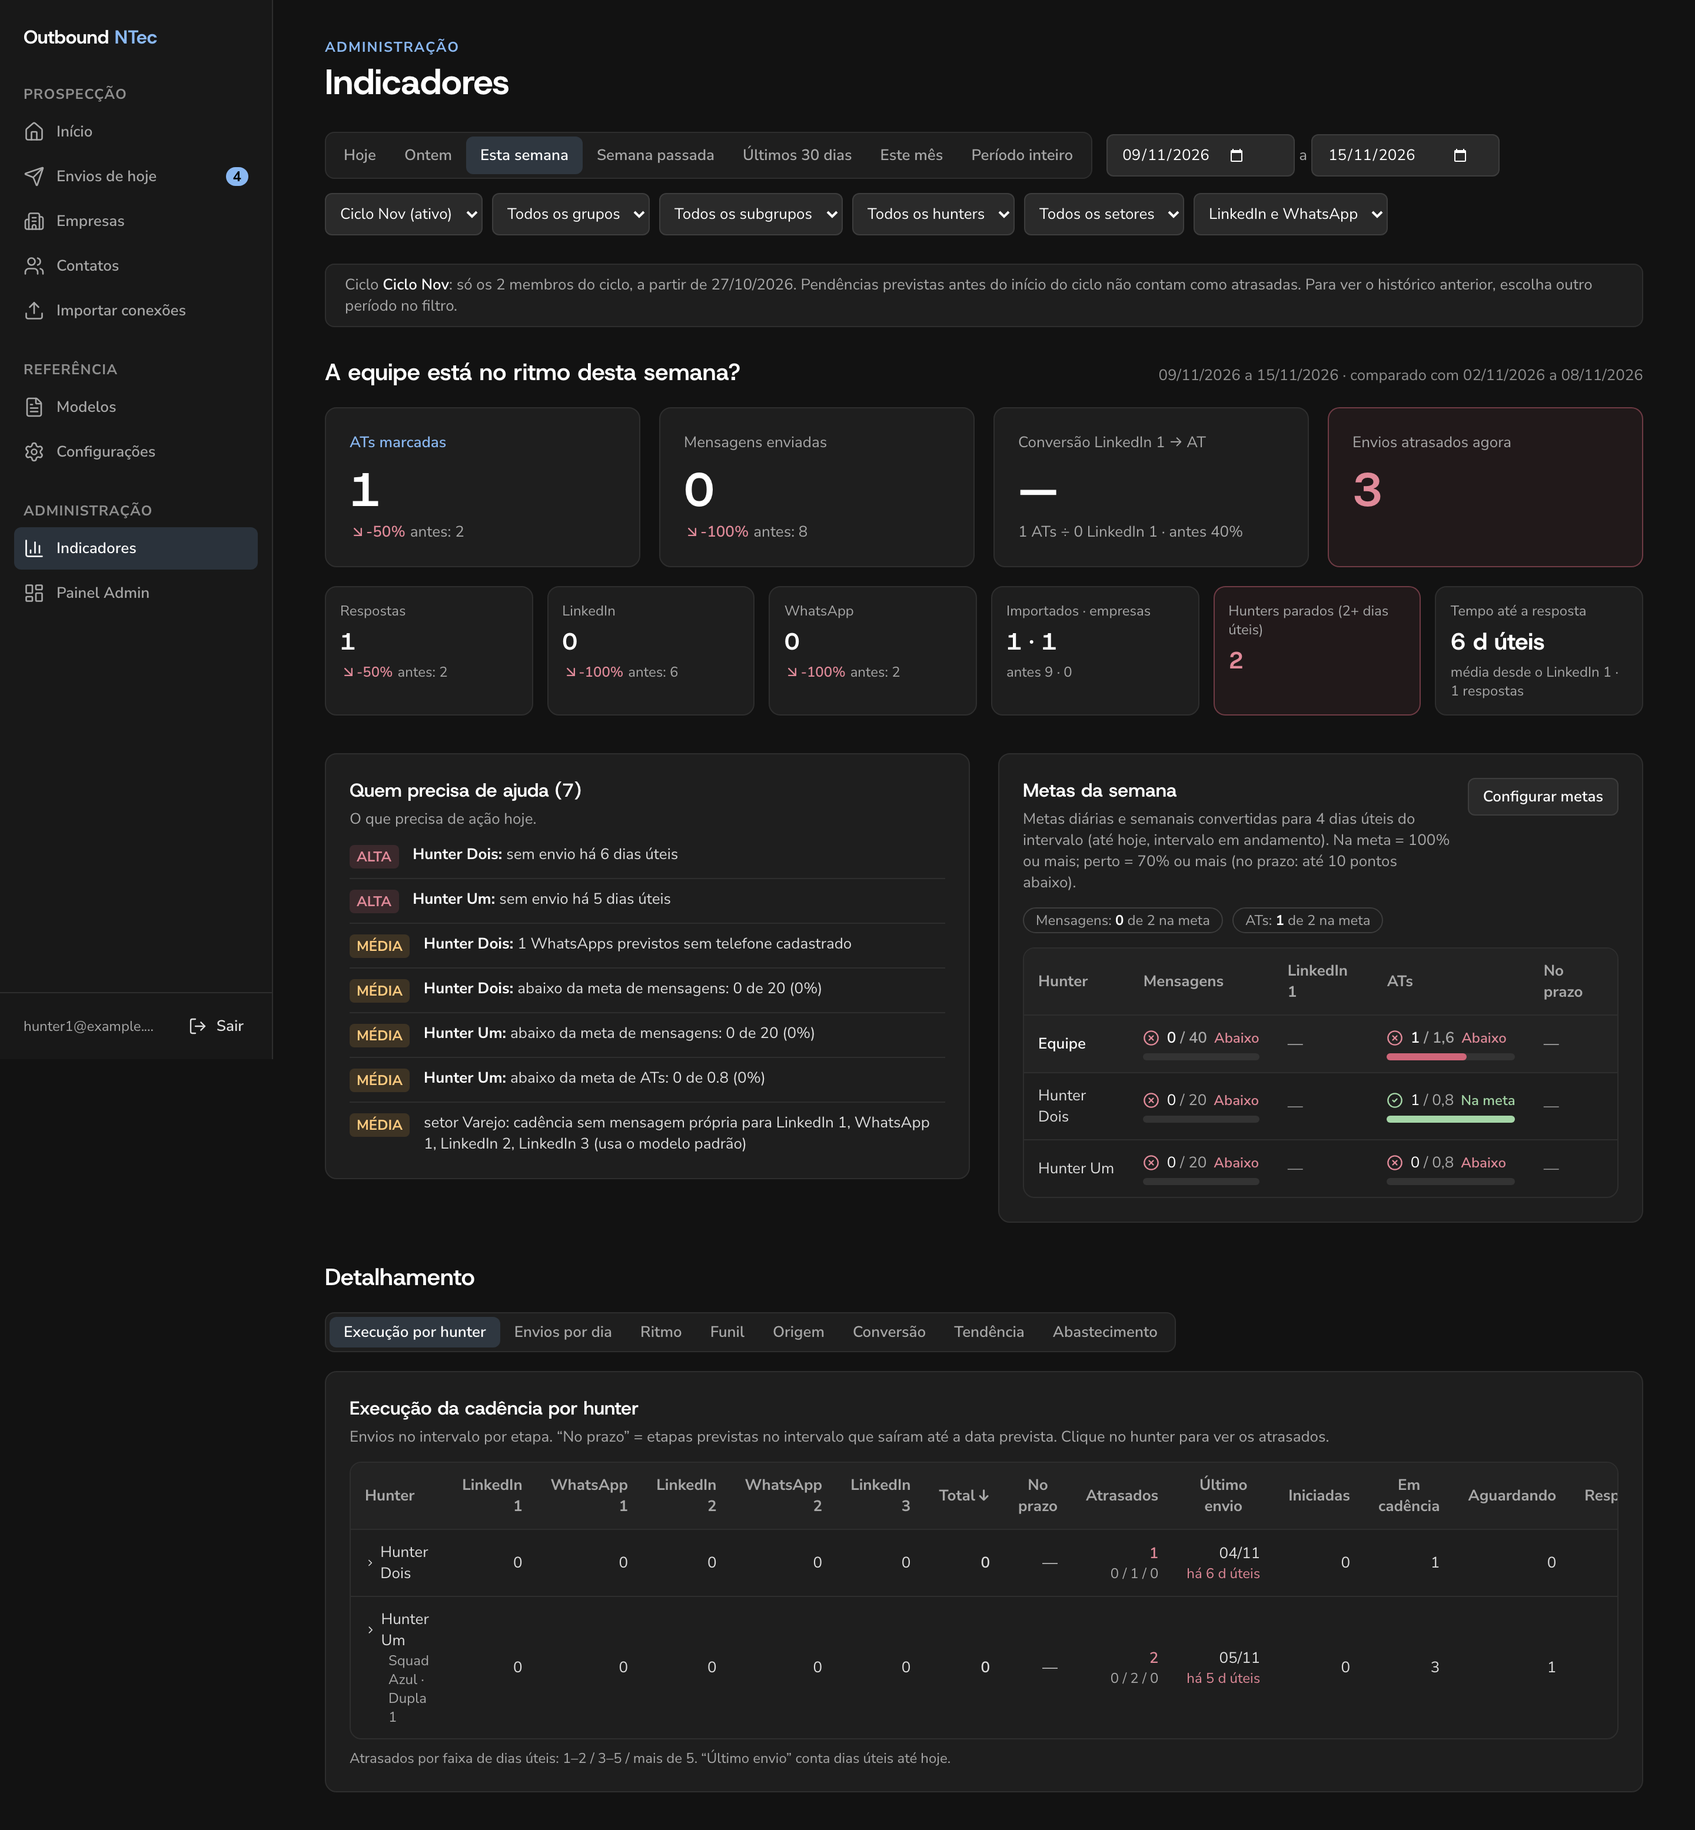
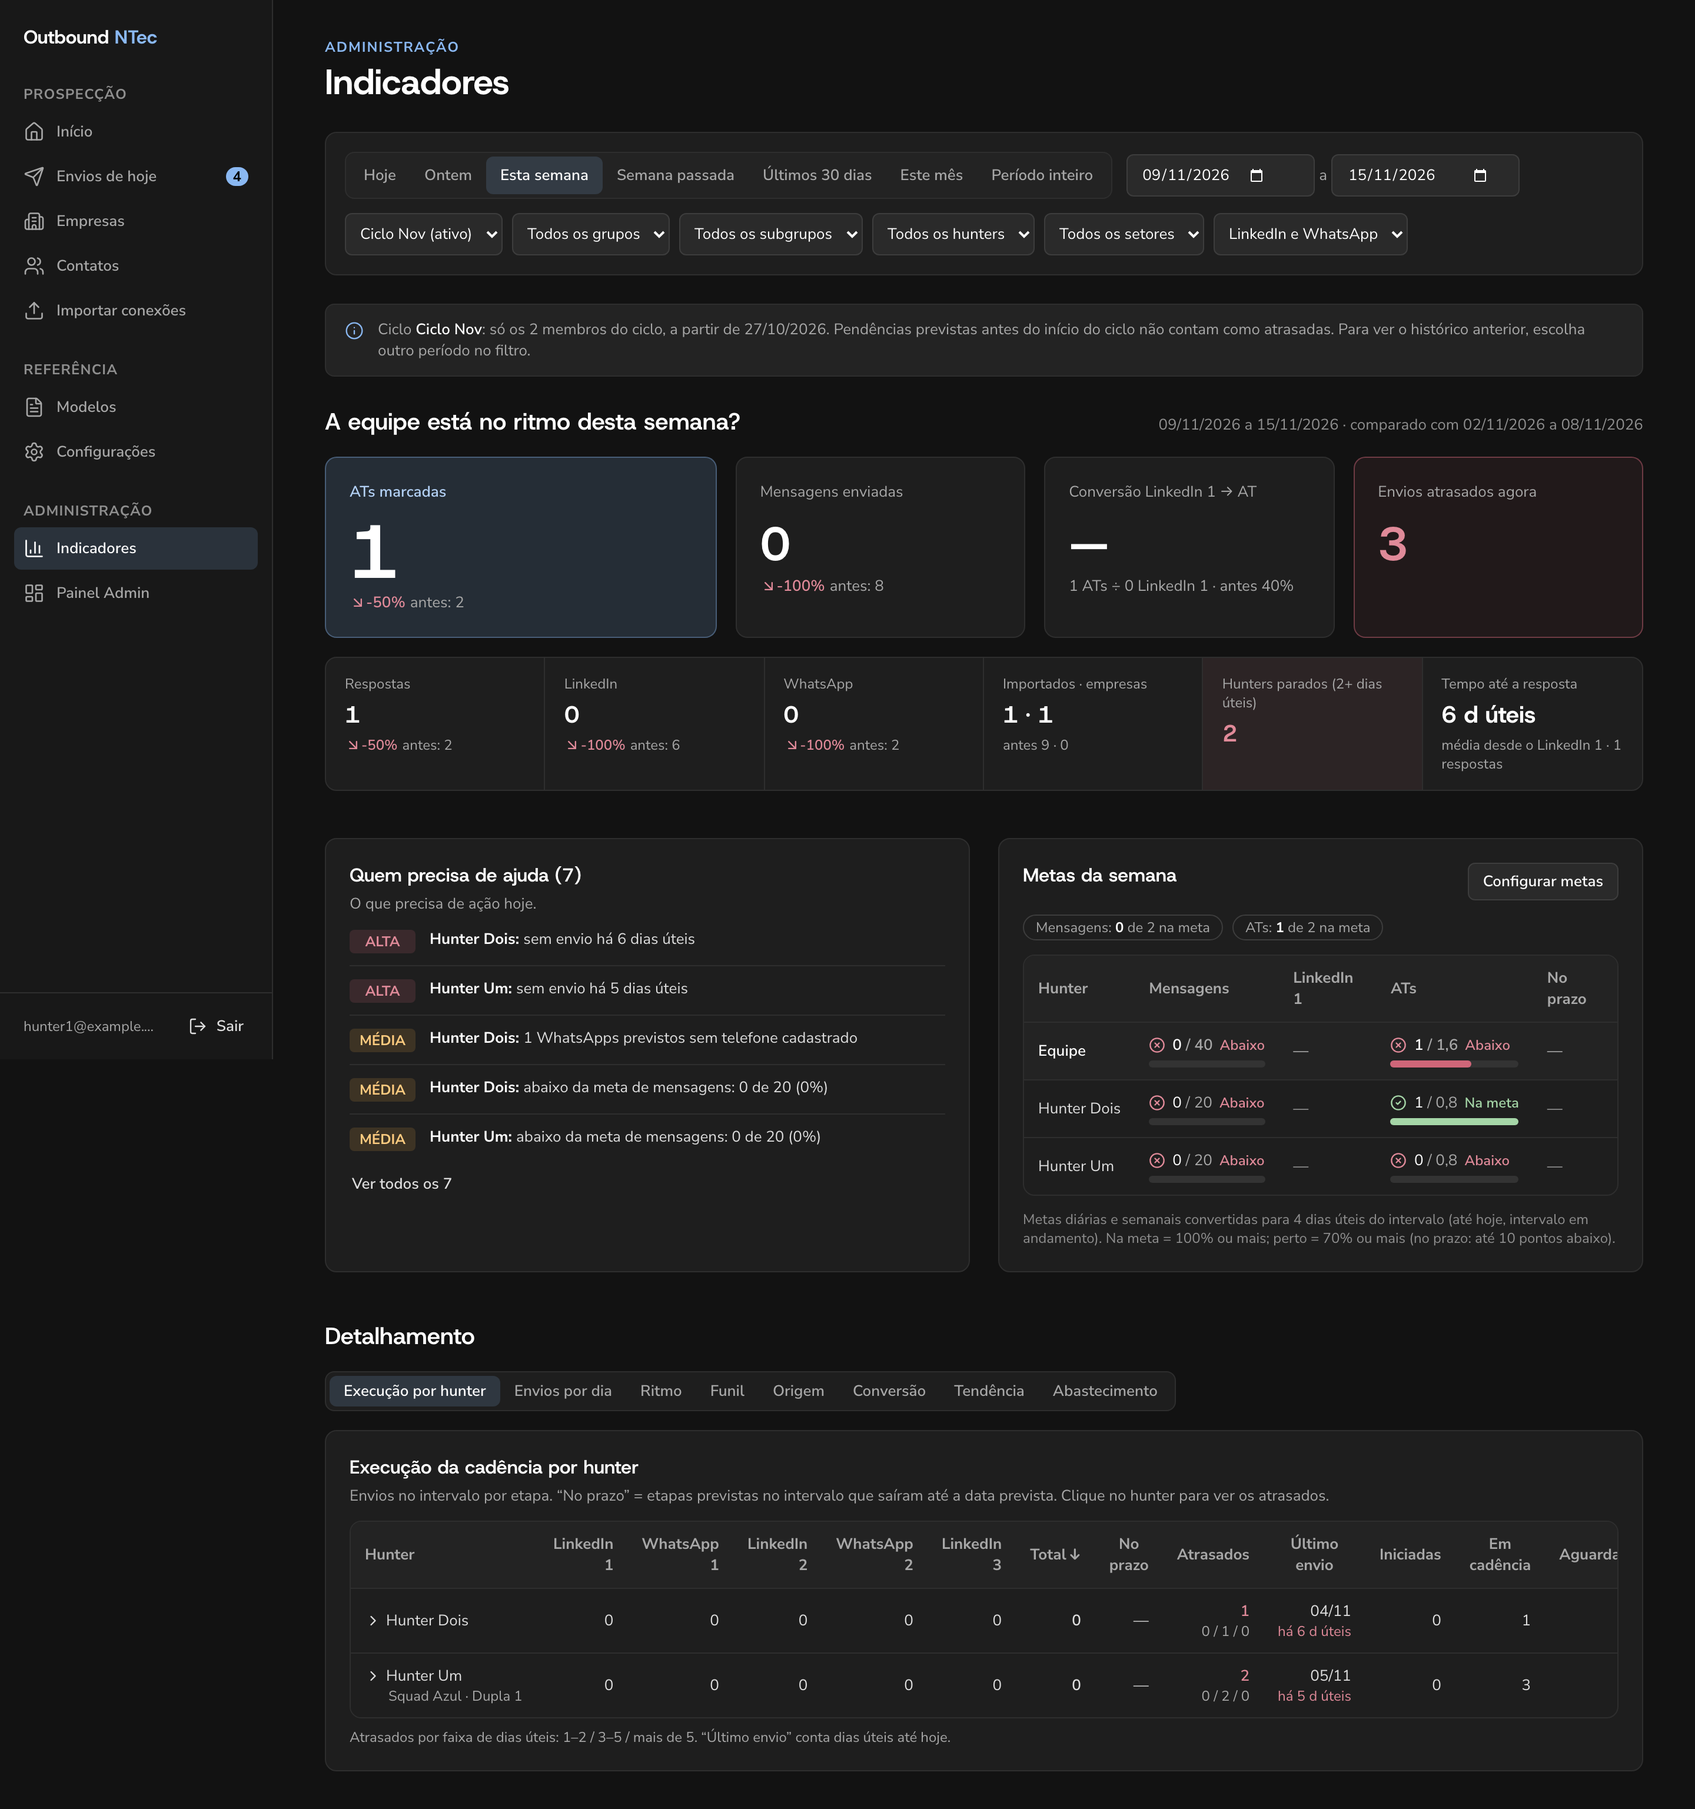
style(painel): melhora o visual da página de indicadores

diff --git a/src/components/painel/dashboard/IndicadoresTab.tsx b/src/components/painel/dashboard/IndicadoresTab.tsx
@@ -1,5 +1,6 @@
 import { useQuery, keepPreviousData } from "@tanstack/react-query";
 import { useServerFn } from "@tanstack/react-start";
+import { Info } from "lucide-react";
 import { useState } from "react";
 import { Button } from "@/components/ui/button";
 import { Tabs, TabsContent, TabsList, TabsTrigger } from "@/components/ui/tabs";
@@ -78,21 +79,24 @@ export function IndicadoresTab() {
         </div>
       )}
       {q.data?.cycle && (
-        <p className="rounded-lg border bg-card px-4 py-2 text-dense text-muted-foreground">
-          Ciclo <span className="font-semibold text-heading">{q.data.cycle.name}</span>: só os{" "}
-          {q.data.cycle.members} membros do ciclo, a partir de {formatBR(q.data.cycle.start)}
-          {q.data.cycle.end ? ` até ${formatBR(q.data.cycle.end)}` : ""}. Pendências previstas antes
-          do início do ciclo não contam como atrasadas.
-          {q.data.cycle.outside
-            ? " O intervalo escolhido fica fora do ciclo, então não há números para mostrar."
-            : " Para ver o histórico anterior, escolha outro período no filtro."}
-        </p>
+        <div className="flex items-start gap-3 rounded-lg border bg-surface-inset px-4 py-3 text-dense text-muted-foreground">
+          <Info className="mt-0.5 size-4 shrink-0 text-primary" strokeWidth={1.75} aria-hidden />
+          <p>
+            Ciclo <span className="font-semibold text-heading">{q.data.cycle.name}</span>: só os{" "}
+            {q.data.cycle.members} membros do ciclo, a partir de {formatBR(q.data.cycle.start)}
+            {q.data.cycle.end ? ` até ${formatBR(q.data.cycle.end)}` : ""}. Pendências previstas
+            antes do início do ciclo não contam como atrasadas.
+            {q.data.cycle.outside
+              ? " O intervalo escolhido fica fora do ciclo, então não há números para mostrar."
+              : " Para ver o histórico anterior, escolha outro período no filtro."}
+          </p>
+        </div>
       )}
       {!d ? (
         !q.isError && (
           <div className="space-y-3" aria-busy="true">
             <p className="text-dense text-muted-foreground">Carregando indicadores…</p>
-            <div className="grid grid-cols-4 gap-4">
+            <div className="grid grid-cols-[1.35fr_1fr_1fr_1fr] gap-4">
               {[0, 1, 2, 3].map((i) => (
                 <div key={i} className="h-28 rounded-xl border bg-card p-5">
                   <div className="h-3 w-24 rounded-sm bg-divider" />
@@ -103,7 +107,7 @@ export function IndicadoresTab() {
         )
       ) : (
         <div
-          className={cn("space-y-8 transition-opacity", q.isFetching && "opacity-60")}
+          className={cn("space-y-10 transition-opacity", q.isFetching && "opacity-60")}
           aria-busy={q.isFetching}
         >
           <section className="space-y-4" aria-labelledby="ritmo-titulo">
@@ -120,7 +124,7 @@ export function IndicadoresTab() {
             <KpisSecundarios d={d} />
           </section>
 
-          <div className="grid grid-cols-2 items-start gap-6">
+          <div className="grid grid-cols-2 items-stretch gap-6">
             <Alertas d={d} />
             <Metas d={d} data={q.data!} title={semana ? "Metas da semana" : "Metas do intervalo"} />
           </div>

diff --git a/src/components/painel/dashboard/Tendencia.tsx b/src/components/painel/dashboard/Tendencia.tsx
@@ -1,4 +1,6 @@
 import { AlertCircle, AlertTriangle } from "lucide-react";
+import { useState } from "react";
+import { Button } from "@/components/ui/button";
 import { Bar, BarChart, CartesianGrid, Line, LineChart, XAxis, YAxis } from "recharts";
 import {
   ChartContainer,
@@ -141,8 +143,12 @@ function Rate({ n, of, mature }: { n: number; of: number; mature: boolean }) {
   );
 }
 
-/** Lista do que precisa de ação hoje, mais urgente primeiro. */
+const ALERTS_SHOWN = 5;
+
+/** Lista do que precisa de ação hoje, mais urgente primeiro (os 5 primeiros; o resto abre sob demanda). */
 export function Alertas({ d }: { d: Dash }) {
+  const [all, setAll] = useState(false);
+  const shown = all ? d.alerts : d.alerts.slice(0, ALERTS_SHOWN);
   return (
     <Section
       title={`Quem precisa de ajuda (${d.alerts.length})`}
@@ -151,26 +157,39 @@ export function Alertas({ d }: { d: Dash }) {
       {d.alerts.length === 0 ? (
         <p className="text-dense text-muted-foreground">Ninguém precisa de ajuda agora.</p>
       ) : (
-        <ul className="divide-y">
-          {d.alerts.map((a, i) => (
-            <li key={i} className="flex items-start gap-3 py-2 text-dense first:pt-0 last:pb-0">
-              <span
-                className={cn(
-                  "mt-px shrink-0 rounded-sm px-1.5 py-0.5 text-caption font-bold uppercase",
-                  a.level === "alta"
-                    ? "bg-destructive-soft text-destructive-text"
-                    : "bg-warning-soft text-warning-text",
-                )}
-              >
-                {a.level === "alta" ? "Alta" : "Média"}
-              </span>
-              <span>
-                {a.hunter && <strong className="text-heading">{a.hunter}: </strong>}
-                {a.text}
-              </span>
-            </li>
-          ))}
-        </ul>
+        <>
+          <ul className="divide-y">
+            {shown.map((a, i) => (
+              <li key={i} className="flex items-start gap-3 py-2.5 text-dense first:pt-0 last:pb-0">
+                <span
+                  className={cn(
+                    "mt-px w-14 shrink-0 rounded-sm py-0.5 text-center text-caption font-bold uppercase",
+                    a.level === "alta"
+                      ? "bg-destructive-soft text-destructive-text"
+                      : "bg-warning-soft text-warning-text",
+                  )}
+                >
+                  {a.level === "alta" ? "Alta" : "Média"}
+                </span>
+                <span>
+                  {a.hunter && <strong className="text-heading">{a.hunter}: </strong>}
+                  {a.text}
+                </span>
+              </li>
+            ))}
+          </ul>
+          {d.alerts.length > ALERTS_SHOWN && (
+            <Button
+              size="sm"
+              variant="ghost"
+              className="mt-3 -ml-2.5"
+              aria-expanded={all}
+              onClick={() => setAll((v) => !v)}
+            >
+              {all ? "Mostrar só os mais urgentes" : `Ver todos os ${d.alerts.length}`}
+            </Button>
+          )}
+        </>
       )}
     </Section>
   );

diff --git a/src/components/painel/dashboard/Kpis.tsx b/src/components/painel/dashboard/Kpis.tsx
@@ -12,7 +12,7 @@ export function KpisPrincipais({ d }: { d: Dash }) {
   const conv = pct(k.ats.value, k.l1.value);
   const convPrev = pct(k.ats.prev ?? 0, k.l1.prev ?? 0);
   return (
-    <div className="grid grid-cols-4 gap-4">
+    <div className="grid grid-cols-[1.35fr_1fr_1fr_1fr] gap-4">
       <Tile label="ATs marcadas" kpi={k.ats} guide />
       <Tile label="Mensagens enviadas" kpi={k.envios} />
       <Tile
@@ -29,7 +29,7 @@ export function KpisPrincipais({ d }: { d: Dash }) {
 export function KpisSecundarios({ d }: { d: Dash }) {
   const k = d.kpis;
   return (
-    <div className="grid grid-cols-6 gap-3">
+    <div className="grid grid-cols-6 divide-x divide-border overflow-hidden rounded-xl border bg-card">
       <Tile small label="Respostas" kpi={k.respostas} />
       <Tile small label="LinkedIn" kpi={k.linkedin} />
       <Tile small label="WhatsApp" kpi={k.whatsapp} />
@@ -80,15 +80,16 @@ function Tile({
       role="group"
       aria-label={label}
       className={cn(
-        "rounded-xl border bg-card",
-        small ? "p-3" : "p-5",
-        alert && "border-destructive-border bg-destructive-soft/50",
+        small ? "px-4 py-3.5" : "rounded-xl border bg-card p-5",
+        guide && "border-primary/35 bg-primary-soft",
+        alert &&
+          (small ? "bg-destructive-soft/50" : "border-destructive-border bg-destructive-soft/50"),
       )}
     >
       <p
         className={cn(
           small ? "text-caption" : "text-dense",
-          guide ? "font-semibold text-primary" : "text-muted-foreground",
+          guide ? "font-semibold text-primary-text-strong" : "text-muted-foreground",
         )}
       >
         {label}
@@ -96,7 +97,7 @@ function Tile({
       <p
         className={cn(
           "font-display font-bold tabular-nums",
-          small ? "mt-1 text-section" : "mt-2 text-kpi",
+          small ? "mt-1 text-section" : guide ? "mt-3 text-big" : "mt-3 text-kpi",
           alert ? "text-destructive-text" : "text-heading",
         )}
       >

diff --git a/src/components/painel/dashboard/Metas.tsx b/src/components/painel/dashboard/Metas.tsx
@@ -38,13 +38,6 @@ export function Metas({ d, data, title = "Metas" }: { d: Dash; data: DashData; t
           Configurar metas
         </Button>
       }
-      hint={
-        hasGoals
-          ? `Metas diárias e semanais convertidas para ${g.elapsedDays} dias úteis do intervalo${
-              g.partial ? " (até hoje, intervalo em andamento)" : ""
-            }. Na meta = 100% ou mais; perto = 70% ou mais (no prazo: até 10 pontos abaixo).`
-          : undefined
-      }
     >
       <div className="mb-3 flex flex-wrap items-center gap-2">
         {hasGoals &&
@@ -92,6 +85,13 @@ export function Metas({ d, data, title = "Metas" }: { d: Dash; data: DashData; t
           </table>
         </div>
       )}
+      {hasGoals && g.elapsedDays > 0 && (
+        <p className="mt-3 text-caption text-subtle-foreground">
+          Metas diárias e semanais convertidas para {g.elapsedDays} dias úteis do intervalo
+          {g.partial ? " (até hoje, intervalo em andamento)" : ""}. Na meta = 100% ou mais; perto =
+          70% ou mais (no prazo: até 10 pontos abaixo).
+        </p>
+      )}
       {editing && <GoalsDialog data={data} onClose={() => setEditing(false)} />}
     </Section>
   );
@@ -100,7 +100,7 @@ export function Metas({ d, data, title = "Metas" }: { d: Dash; data: DashData; t
 function GoalRow({ name, goals, strong }: { name: string; goals: GoalSet; strong?: boolean }) {
   return (
     <tr className={cn("border-t", strong && "bg-surface-inset font-semibold text-heading")}>
-      <td className="p-2">{name}</td>
+      <td className="p-2 whitespace-nowrap">{name}</td>
       {METRICS.map((m) => (
         <td key={m.key} className="p-2">
           <Progress p={goals[m.key]} unit={m.unit} />

diff --git a/e2e/indicadores.spec.ts b/e2e/indicadores.spec.ts
@@ -85,6 +85,20 @@ test.describe("Indicadores", () => {
     ).toBeVisible();
   });
 
+  test("a lista de alertas mostra os 5 mais urgentes e abre o resto sob demanda", async ({
+    page,
+  }) => {
+    await page.goto("/indicadores");
+    const alertas = page.getByRole("region", { name: /^Quem precisa de ajuda/ });
+    await expect(alertas.getByRole("listitem")).toHaveCount(5);
+    await expect(alertas.getByText(/setor Varejo/)).toHaveCount(0);
+    await alertas.getByRole("button", { name: "Ver todos os 7" }).click();
+    await expect(alertas.getByRole("listitem")).toHaveCount(7);
+    await expect(alertas.getByText(/setor Varejo/)).toBeVisible();
+    await alertas.getByRole("button", { name: "Mostrar só os mais urgentes" }).click();
+    await expect(alertas.getByRole("listitem")).toHaveCount(5);
+  });
+
   test("editor de metas grava a meta da equipe e a exceção de um hunter", async ({ page }) => {
     await page.goto("/indicadores");
     await page.getByRole("button", { name: "Configurar metas" }).click();

diff --git a/src/components/painel/dashboard/Execucao.tsx b/src/components/painel/dashboard/Execucao.tsx
@@ -41,7 +41,7 @@ export function Execucao({ d }: { d: Dash }) {
     return sort.desc ? -c : c;
   });
   const th = (key: SortKey, label: string, title?: string) => (
-    <th className="p-2 text-right first:text-left">
+    <th className="p-2 text-right first:sticky first:left-0 first:min-w-40 first:bg-surface-inset first:text-left">
       <button
         className="inline-flex items-center gap-0.5 hover:text-heading"
         title={title}
@@ -98,7 +98,7 @@ export function Execucao({ d }: { d: Dash }) {
               return (
                 <Fragment key={r.hunter_id}>
                   <tr className="border-t">
-                    <td className="p-2">
+                    <td className="sticky left-0 min-w-40 bg-card p-2 whitespace-nowrap">
                       <button
                         className="flex items-center gap-1 text-left font-medium"
                         aria-expanded={expanded}

diff --git a/src/components/painel/dashboard/Filters.tsx b/src/components/painel/dashboard/Filters.tsx
@@ -38,12 +38,12 @@ export function Filters({
   );
 
   return (
-    <div className="space-y-3">
+    <div className="space-y-3 rounded-xl border bg-card p-4">
       <div className="flex flex-wrap items-center gap-3">
         <div
           role="group"
           aria-label="Intervalo"
-          className="inline-flex rounded-lg border bg-card p-[3px]"
+          className="inline-flex rounded-lg border bg-surface-inset p-[3px]"
         >
           {(Object.keys(RANGE_LABEL) as RangePreset[]).map((p) => (
             <Segment

diff --git a/docs/redesign/DESIGN.md b/docs/redesign/DESIGN.md
@@ -107,7 +107,7 @@ Todos sobre shadcn/ui (Radix). Ícones: lucide, traço 1.75, 16–18 px, `curren
 - **Cartão de KPI**
   - Normal: `bg-card`, rótulo `text-dense text-muted-foreground`, valor `text-kpi text-heading`, comparação `text-dense` (queda em `destructive-text`, alta em `success`).
   - Em alerta: `bg-destructive-soft/50 border-destructive-border` e valor `text-destructive-text`.
-  - A métrica-guia (ATs marcadas) tem o rótulo em `text-primary`.
+  - A métrica-guia (ATs marcadas) tem o rótulo em `text-primary-text-strong`, fundo `bg-primary-soft` e valor em `text-big`. Na faixa de KPIs secundários o alerta usa só o fundo `bg-destructive-soft/50`, sem borda própria.
 - **Linha de alerta**: selo de severidade em maiúsculas ("Alta" `destructive-soft`, "Média" `warning-soft`) + frase com o nome em `text-heading`.
 - **Indicador de meta**: barra de 6 px (`bg-divider` + preenchimento) + "realizado / meta" + palavra.
   - Na meta: `success`.
@@ -146,9 +146,9 @@ Todos sobre shadcn/ui (Radix). Ícones: lucide, traço 1.75, 16–18 px, `curren
     - Cartão atrasado: `border-destructive-border`.
   - Rodapé: "Mostrando X de Y" + "Mostrar mais 50".
 - **Indicadores**
-  1. Filtros (segmentado de intervalo + datas + selects).
-  2. "A equipe está no ritmo desta semana?": 4 KPIs grandes (ATs marcadas, Mensagens enviadas, Conversão LinkedIn 1 → AT, Envios atrasados) + faixa de 6 KPIs secundários.
-  3. Duas colunas: "Quem precisa de ajuda" (alertas) e "Metas da semana".
+  1. Filtros (segmentado de intervalo + datas + selects, juntos num cartão).
+  2. "A equipe está no ritmo desta semana?": 4 KPIs grandes (ATs marcadas, a métrica-guia, em `bg-primary-soft` e `text-big`, mais larga; Mensagens enviadas, Conversão LinkedIn 1 → AT, Envios atrasados) + uma faixa única de 6 KPIs secundários (um cartão com divisórias, célula em alerta em `bg-destructive-soft/50`).
+  3. Duas colunas de mesma altura: "Quem precisa de ajuda" (5 alertas mais urgentes, "Ver todos" abre o resto; selo de severidade de largura fixa) e "Metas da semana" (a regra das metas vai em nota no rodapé).
   4. "Detalhamento" em abas internas: Execução por hunter, Envios por dia, Ritmo, Funil, Origem, Conversão, Tendência, Abastecimento.
 - **Contatos**: 9 colunas.
   - Colunas: ☐, Contato (nome + cargo), Empresa (+ "texto livre" ou setor), Área, Telefone, Cadência, Próximo envio, Situação, menu de ações.
